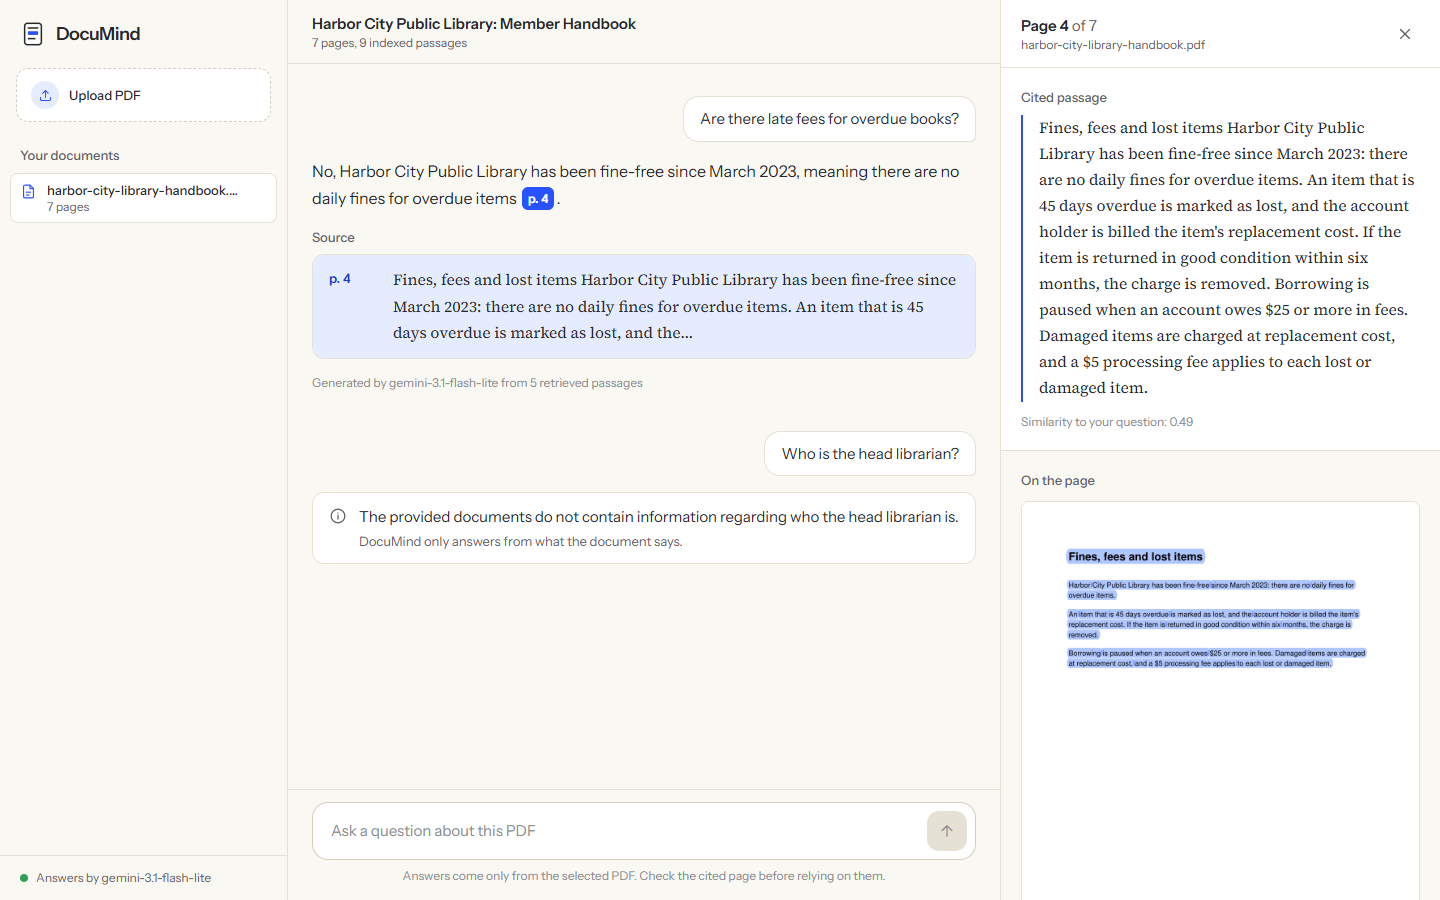
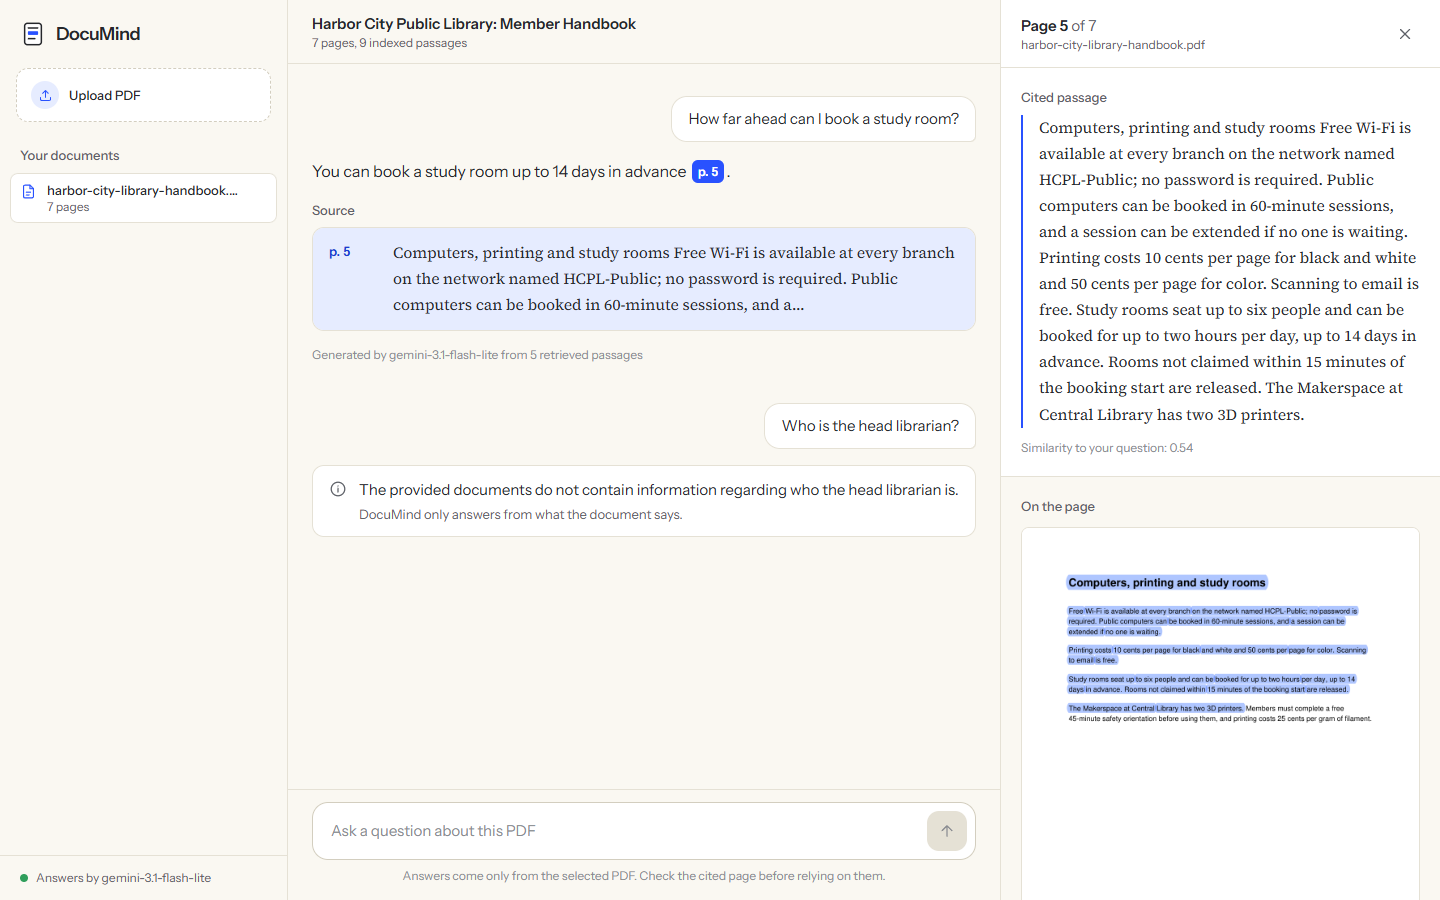
Use a production screenshot in the README

Changed region(s): [[0.7188, 0.1244, 1.0, 0.8089], [0.2188, 0.1244, 0.6562, 0.4356], [0.2188, 0.4667, 0.6875, 0.6222]]

diff --git a/README.md b/README.md
@@ -39,7 +39,7 @@ Ask questions about a PDF and get answers grounded in its text, with every claim
 | --- | --- | --- |
 | ![Welcome screen](docs/screenshots/welcome.png) | ![Abstained answer](docs/screenshots/abstained.png) | ![Mobile layout](docs/screenshots/mobile.png) |
 
-> The hero screenshot shows a live answer from `gemini-3.1-flash-lite`. The three above were captured in retrieval-only mode, before a key was configured.
+> The hero screenshot is from the live deployment (Vercel, `gemini-3.1-flash-lite`). The three above were captured locally in retrieval-only mode, before a key was configured.
 
 ## Architecture
 
